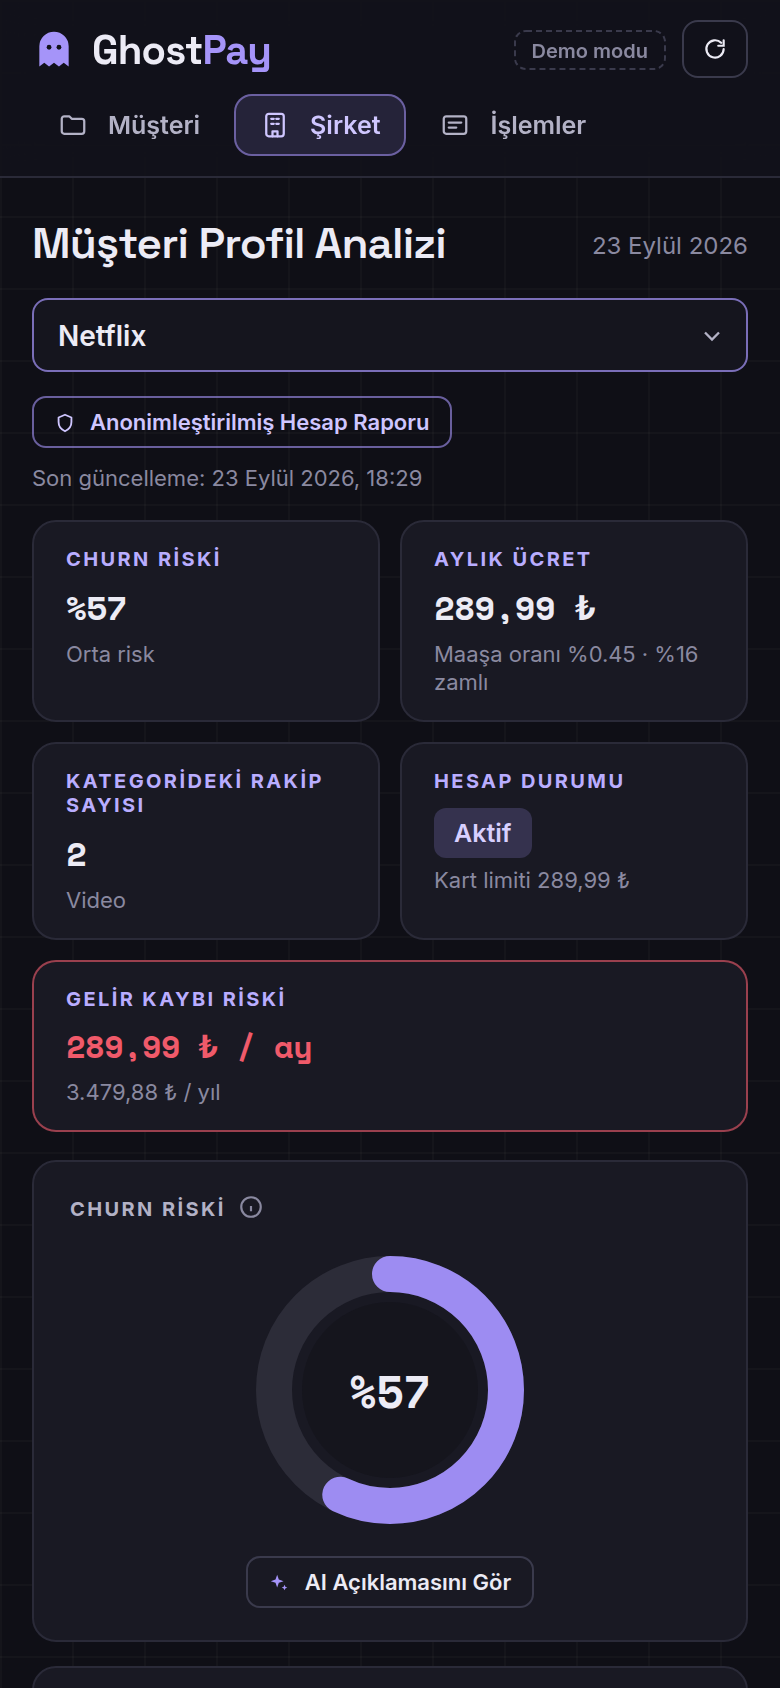
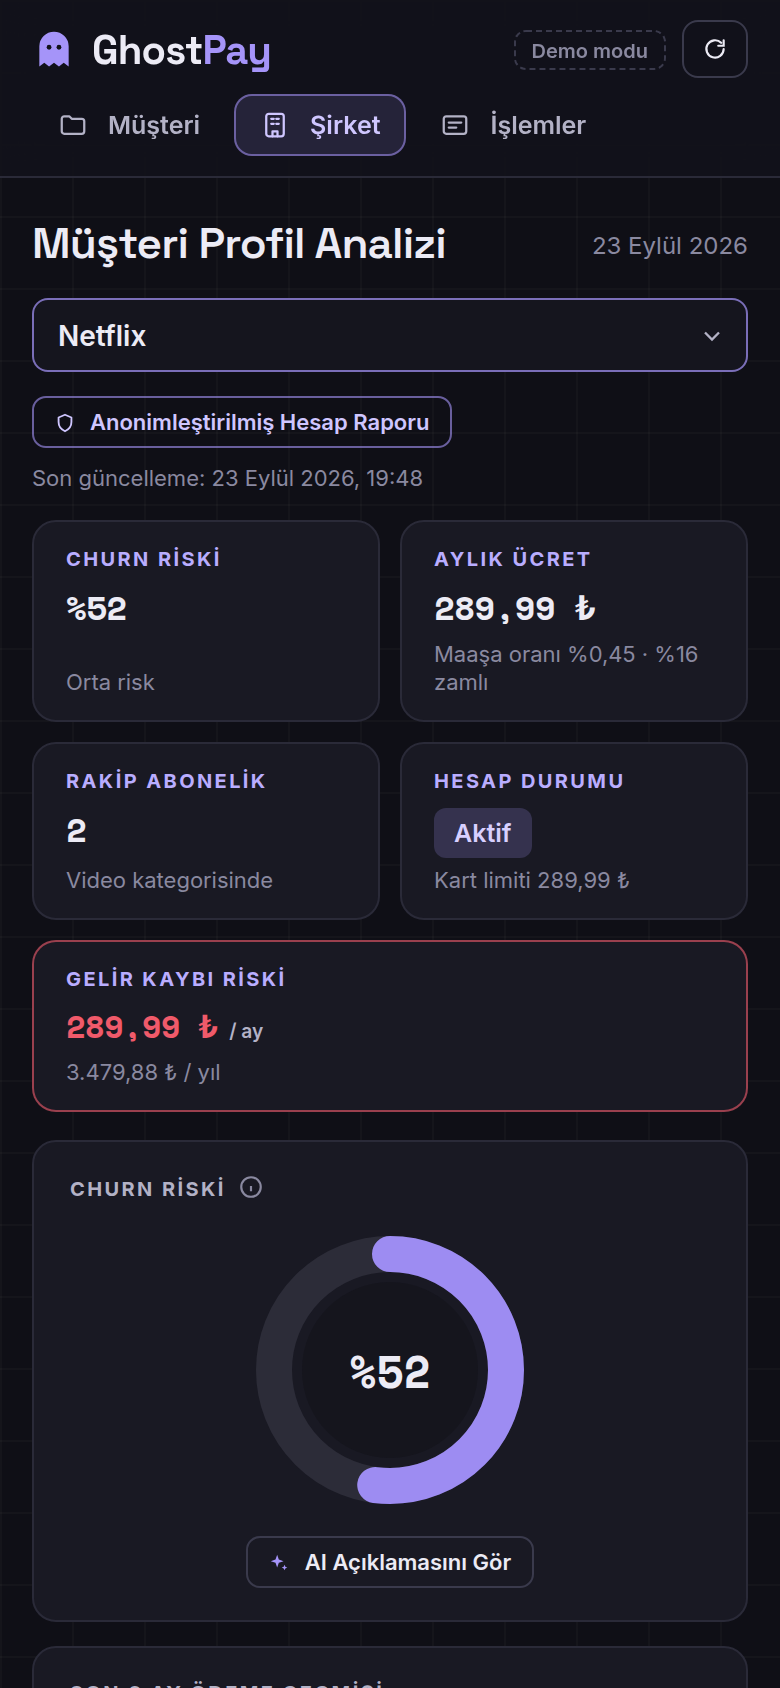
Arayüzdeki kaymaları düzelt, biçimleri tutarlı hâle getir (#8)
* Keep the free server awake and document design decisions

- Scheduled workflow pings /healthz every 10 minutes so the first visit
  does not wait for Render to wake up
- README explains subscription and price hike detection, the churn
  formula, the single worker setup and why there is no database
- Note that GhostPay is not an official Moka United product

* Fix layout glitches and make formatting consistent

- Category chips on tablets and phones no longer take the full width
- Charts use a narrower drawing on phones so axis labels stay readable
- Percentages use a decimal comma and a leading % sign everywhere
- Limit inputs always show two decimals
- Limit warning is styled as a warning with an icon
- Hesap raporu shows readable labels and formatted values
- KPI subtitles line up, revenue risk shows '/ ay' as a unit
- Navigation shows B2C/B2B as small tags, fix Zekâ spelling
- Rephrase summary texts that attached suffixes to percentages
- Refreshed README screenshots and demo GIF

diff --git a/static/app.js b/static/app.js
@@ -21,6 +21,7 @@ const ICON = {
   list: '<svg viewBox="0 0 24 24" aria-hidden="true"><path d="M8 6h12M8 12h12M8 18h12M4 6h.01M4 12h.01M4 18h.01"/></svg>',
   down: '<svg viewBox="0 0 24 24" aria-hidden="true"><path d="M17 7L7 17M7 9v8h8"/></svg>',
   up: '<svg viewBox="0 0 24 24" aria-hidden="true"><path d="M7 17L17 7M9 7h8v8"/></svg>',
+  alert: '<svg viewBox="0 0 24 24" aria-hidden="true"><path d="M12 9v4M12 17h.01M10.3 3.9L1.8 18a2 2 0 0 0 1.7 3h17a2 2 0 0 0 1.7-3L13.7 3.9a2 2 0 0 0-3.4 0z"/></svg>',
   trend: '<svg viewBox="0 0 24 24" aria-hidden="true"><path d="M3 17l6-6 4 4 8-8M15 7h6v6"/></svg>',
   lock: '<svg viewBox="0 0 24 24" aria-hidden="true"><rect x="5" y="11" width="14" height="10" rx="2"/><path d="M8 11V7a4 4 0 0 1 8 0v4"/></svg>',
 };
@@ -46,7 +47,7 @@ const esc = (s) => String(s ?? "").replace(/[&<>"']/g,
 const tl = (n) => Number(n).toLocaleString("tr-TR",
   { minimumFractionDigits: 2, maximumFractionDigits: 2 }) + " ₺";
 const tlInt = (n) => Math.round(n).toLocaleString("tr-TR") + " ₺";
-const pct = (n, d = 1) => Number(Number(n).toFixed(d)).toString();
+const pct = (n, d = 1) => Number(Number(n).toFixed(d)).toString().replace(".", ",");
 const money = (n) => `<span class="money">${tl(n)}</span>`;
 
 function parseDate(iso) {
@@ -79,7 +80,8 @@ function ago(iso) {
   const h = Math.floor(min / 60);
   return h < 24 ? `${h} sa önce` : `${Math.floor(h / 24)} gün önce`;
 }
-const limitText = (n) => String(n).replace(".", ",");
+const limitText = (n) => Number(n).toFixed(2).replace(".", ",");
+const isPhone = () => window.matchMedia("(max-width: 860px)").matches;
 function parseAmount(text) {
   let t = String(text).trim();
   if (t.includes(",")) t = t.replace(/\./g, "").replace(",", ".");
@@ -220,7 +222,7 @@ function renderB2C() {
 
   const legend = (c) => c ? `<div class="legend-item">
       <div class="name"><i class="dot" style="background:${CAT_COLORS[c.name]}"></i>${esc(c.name)}</div>
-      <div class="amount">${money(c.total)} <span>· ${pct((100 * c.total) / donutTotal)}%</span></div>
+      <div class="amount">${money(c.total)} <span>· %${pct((100 * c.total) / donutTotal)}</span></div>
     </div>` : "";
 
   const selected = cats.find((c) => c.name === ui.category);
@@ -383,7 +385,7 @@ function usageHtml(s, limit) {
 
 function warnHtml(s, limit) {
   return limit < s.fiyat
-    ? `<div class="limit-warn" role="status">Limit Ücretin Altında: Sonraki çekim reddedilecek.</div>` : "";
+    ? `<div class="limit-warn" role="status">${ICON.alert}<span>Limit ücretin altında. Sonraki çekim reddedilecek.</span></div>` : "";
 }
 
 function onLimitInput(input) {
@@ -457,9 +459,9 @@ function renderB2B() {
     <div class="kpis five">
       <div class="panel kpi"><div class="label">Churn Riski</div><div class="value">%${c.churn_risk}</div><div class="sub">${level.text}${hasAi ? "" : " · tahmini"}</div></div>
       <div class="panel kpi"><div class="label">Aylık Ücret</div><div class="value">${money(s.fiyat)}</div><div class="sub">Maaşa oranı %${pct((100 * s.fiyat) / salary(), 2)}${s.zam ? ` · %${pct(s.zam.oran_yuzde)} zamlı` : ""}</div></div>
-      <div class="panel kpi"><div class="label">Kategorideki Rakip Sayısı</div><div class="value">${rivals}</div><div class="sub">${esc(s.kategori)}</div></div>
+      <div class="panel kpi"><div class="label">Rakip Abonelik</div><div class="value">${rivals}</div><div class="sub">${esc(s.kategori)} kategorisinde</div></div>
       <div class="panel kpi"><div class="label">Hesap Durumu</div><div class="chip ${isFrozen(s) ? "" : "aktif"}">${s.durum}</div><div class="sub">Kart limiti ${tl(s.limit)}</div></div>
-      <div class="panel kpi danger"><div class="label">Gelir Kaybı Riski</div><div class="value">${money(s.fiyat)} / ay</div><div class="sub">${tl(12 * s.fiyat)} / yıl</div></div>
+      <div class="panel kpi danger"><div class="label">Gelir Kaybı Riski</div><div class="value">${money(s.fiyat)}<small>/ ay</small></div><div class="sub">${tl(12 * s.fiyat)} / yıl</div></div>
     </div>
 
     <div class="b2b-grid">
@@ -477,7 +479,7 @@ function renderB2B() {
       </div>
       <div class="panel chart-panel">
         <div class="label plain">Son 6 Ay Ödeme Geçmişi</div>
-        ${areaSvg(months, { width: 760, height: 200, yTicks: true, label: `${s.ad} son 6 ay ödemeleri` })}
+        ${areaSvg(months, { width: isPhone() ? 380 : 760, height: isPhone() ? 220 : 200, yTicks: true, label: `${s.ad} son 6 ay ödemeleri` })}
       </div>
     </div>
 
@@ -523,19 +525,52 @@ function openExplain() {
     </div>`);
 }
 
+const REPORT_FIELDS = [
+  ["anonim_kullanici_id", "Anonim kullanıcı kimliği"],
+  ["hizmet", "Hizmet"],
+  ["kategori", "Kategori"],
+  ["aylik_ucret_tl", "Aylık ücret", "tl"],
+  ["maasa_orani_yuzde", "Ücretin maaşa oranı", "pct"],
+  ["fiyat_artisi", "Son zam", "hike"],
+  ["sanal_kart_durumu", "Sanal kart durumu"],
+  ["dondurma_tarihi", "Dondurma tarihi", "date"],
+  ["sanal_kart_aylik_limiti_tl", "Kart limiti", "tl"],
+  ["limit_ucretin_altinda_mi", "Limit ücretin altında mı", "bool"],
+  ["kesintisiz_odeme_ay_sayisi", "Kesintisiz ödenen ay"],
+  ["odeme_gecmisi", "Ödeme geçmişi", "payments"],
+  ["kategorideki_rakip_sayisi", "Rakip abonelik sayısı"],
+  ["ayni_kategorideki_diger_abonelikler", "Aynı kategorideki abonelikler", "rivals"],
+  ["rakip_ortalama_ucret_tl", "Rakiplerin ortalama ücreti", "tl"],
+  ["kategorinin_en_pahalisi_mi", "Kategorinin en pahalısı mı", "bool"],
+  ["toplam_aktif_abonelik_yuku_tl", "Toplam aktif abonelik yükü", "tl"],
+  ["toplam_abonelik_yukunun_maasa_orani_yuzde", "Abonelik yükünün maaşa oranı", "pct"],
+  ["genel_harcama_trendi", "Genel harcama eğilimi", "text"],
+];
+
+function reportValue(v, kind) {
+  if (v === null || v === undefined || v === "") return "—";
+  switch (kind) {
+    case "tl": return esc(tl(v));
+    case "pct": return `%${pct(v, 2)}`;
+    case "bool": return v ? "Evet" : "Hayır";
+    case "date": return dmy(v);
+    case "text": return esc(String(v).charAt(0).toLocaleUpperCase("tr-TR") + String(v).slice(1));
+    case "hike": return `${esc(tl(v.eski_fiyat))} → ${esc(tl(v.yeni_fiyat))} (%${pct(v.oran_yuzde)}), ${monthYear(v.tarih)}`;
+    case "payments": return v.map((p) => `${dmy(p.tarih)} · ${esc(tl(p.tutar))}`).join("<br>");
+    case "rivals": return v.map((r) => `${esc(r.hizmet)} · ${esc(tl(r.aylik_ucret_tl))} · ${esc(r.durum)}`).join("<br>");
+    default: return esc(v);
+  }
+}
+
 async function openReport() {
   try {
     const r = await api("GET", `/api/b2b/${ui.company}/rapor`);
-    const fmt = (v) => {
-      if (v === null) return "—";
-      if (typeof v === "boolean") return v ? "evet" : "hayır";
-      if (Array.isArray(v)) return v.map((x) => esc(typeof x === "object" ? Object.values(x).join(" · ") : x)).join("<br>");
-      if (typeof v === "object") return Object.entries(v).map(([k, x]) => `${esc(k)}: ${esc(x)}`).join("<br>");
-      return esc(v);
-    };
+    const known = new Set(REPORT_FIELDS.map(([k]) => k));
+    const rows = [...REPORT_FIELDS.filter(([k]) => k in r), ...Object.keys(r).filter((k) => !known.has(k)).map((k) => [k, k])];
     openModal("Anonimleştirilmiş Hesap Raporu", `
       <p class="modal-note">Şirketlere kimlik bilgisi paylaşılmaz; yalnızca aşağıdaki anonim finansal davranış sinyalleri iletilir.</p>
-      <div class="kv">${Object.entries(r).map(([k, v]) => `<div class="k">${esc(k)}</div><div class="v">${fmt(v)}</div>`).join("")}</div>`, true);
+      <div class="kv">${rows.map(([k, label, kind]) => `<div class="k">${esc(label)}<code>${esc(k)}</code></div>
+        <div class="v">${reportValue(r[k], kind)}</div>`).join("")}</div>`, true);
   } catch (e) { toastError(e.message); }
 }
 
@@ -571,7 +606,7 @@ function renderTransactions() {
 
     <div class="panel tx-chart">
       <div class="label plain">Aylık Gider (₺) — Son 6 Ay</div>
-      ${areaSvg(points, { width: 1200, height: 230, yTicks: true, label: "Son 6 ay aylık gider" })}
+      ${areaSvg(points, { width: isPhone() ? 380 : 1200, height: isPhone() ? 220 : 230, yTicks: true, label: "Son 6 ay aylık gider" })}
     </div>
 
     <div class="panel table-wrap">
@@ -778,6 +813,7 @@ setInterval(() => {
 }, 30000);
 
 window.addEventListener("hashchange", routeFromHash);
+window.matchMedia("(max-width: 860px)").addEventListener("change", () => { if (ui.view !== "b2c") render(); });
 
 (async function init() {
   routeFromHash();

diff --git a/static/style.css b/static/style.css
@@ -84,6 +84,9 @@ h1, h2, h3 { margin: 0; font-weight: 600; }
   transition: background .15s, border-color .15s, color .15s;
 }
 .nav a .short { display: none; }
+.nav a .long { display: flex; align-items: center; flex: 1; gap: 8px; }
+.nav .tag { margin-left: auto; font-size: 9px; font-weight: 700; letter-spacing: .08em; color: var(--muted); border: 1px solid var(--border-strong); border-radius: 4px; padding: 1px 5px; }
+.nav a.active .tag { color: #cfc6ff; border-color: rgba(165,148,249,.45); }
 .nav a svg { width: 15px; height: 15px; fill: none; stroke: currentColor; stroke-width: 1.8; stroke-linecap: round; stroke-linejoin: round; }
 .nav a:hover { background: rgba(255,255,255,.03); color: var(--text); }
 .nav a.active { color: #cfc6ff; border-color: rgba(165,148,249,.55); background: var(--accent-soft); }
@@ -130,12 +133,14 @@ h1, h2, h3 { margin: 0; font-weight: 600; }
 
 .kpis { display: grid; grid-template-columns: repeat(4, 1fr); gap: 12px; margin-bottom: 14px; }
 .kpis.five { grid-template-columns: repeat(5, 1fr); }
-.kpi { padding: 12px 16px; min-width: 0; }
+.kpi { padding: 12px 16px; min-width: 0; display: flex; flex-direction: column; align-items: flex-start; }
+.kpi .label, .kpi .value { align-self: stretch; }
+.kpi .value small { font-family: var(--font); font-size: .6em; font-weight: 600; color: var(--text-2); margin-left: 6px; letter-spacing: 0; }
 .kpi .value {
   font-family: var(--mono); font-size: clamp(18px, 1.7vw, 24px); font-weight: 700;
   margin-top: 6px; letter-spacing: -.02em; white-space: nowrap; overflow: hidden; text-overflow: ellipsis;
 }
-.kpi .sub { font-size: 11px; color: var(--muted); margin-top: 4px; }
+.kpi .sub { font-size: 11px; color: var(--muted); margin-top: auto; padding-top: 4px; }
 .kpi.danger { border-color: rgba(240, 90, 106, .6); }
 .kpi.danger .value { color: var(--danger); font-size: clamp(16px, 1.3vw, 18px); }
 .chip {
@@ -291,9 +296,11 @@ svg .dot:hover { r: 6; }
 .save-btn.dirty { color: #fff; border-color: var(--accent); background: var(--accent-2); }
 .save-btn:disabled { cursor: default; }
 .limit-warn {
-  margin-top: 8px; padding: 8px 10px; border-radius: 7px; font-size: 11px; font-weight: 700; line-height: 1.4;
-  border: 1px solid var(--border-strong); background: #16161f;
+  display: flex; align-items: flex-start; gap: 7px;
+  margin-top: 8px; padding: 8px 10px; border-radius: 7px; font-size: 11px; font-weight: 600; line-height: 1.4;
+  color: #ffc2c8; border: 1px solid rgba(240,90,106,.35); background: rgba(240,90,106,.08);
 }
+.limit-warn svg { width: 13px; height: 13px; margin-top: 1px; fill: none; stroke: var(--danger); stroke-width: 2; stroke-linecap: round; stroke-linejoin: round; }
 
 .sub-name { display: flex; align-items: center; gap: 8px; font-family: var(--display); font-size: 16px; margin-top: 2px; padding-right: 90px; }
 .risk-dot { width: 8px; height: 8px; border-radius: 50%; background: var(--ok); flex-shrink: 0; }
@@ -426,7 +433,8 @@ svg .dot:hover { r: 6; }
 .modal li { font-size: 12px; line-height: 1.6; color: var(--text-2); margin-bottom: 4px; }
 .kv { display: grid; grid-template-columns: minmax(0, 1fr) minmax(0, 1.2fr); font-size: 11.5px; }
 .kv div { padding: 7px 4px; border-top: 1px solid var(--border); }
-.kv .k { color: var(--muted); font-family: var(--mono); font-size: 10.5px; word-break: break-word; }
+.kv .k { color: var(--text-2); word-break: break-word; }
+.kv .k code { display: block; margin-top: 2px; color: var(--muted); font-family: var(--mono); font-size: 9.5px; }
 .kv .v { color: var(--text); word-break: break-word; }
 
 /* İşlem geçmişi */
@@ -498,10 +506,12 @@ td.amt.in { color: var(--ok); }
   .donut-panel { grid-template-columns: minmax(0, 1fr) auto minmax(0, 1fr); justify-items: center; }
 
   .subs-layout { grid-template-columns: minmax(0, 1fr); gap: 16px; }
+  .sub-line { column-gap: 14px; }
+  .sub-line .sep { display: none; }
   .stack-col { position: static; }
   .stack { display: flex; gap: 10px; perspective: none; padding: 0; }
   .stack-item {
-    flex: 1 1 0; min-width: 0; height: auto; margin: 0; padding: 12px 16px;
+    flex: 1 1 0; width: auto; min-width: 0; height: auto; margin: 0; padding: 12px 16px;
     transform: none; box-shadow: 0 6px 16px rgba(0,0,0,.3);
   }
   .stack-item:hover { transform: translateY(-2px); }
@@ -545,7 +555,7 @@ td.amt.in { color: var(--ok); }
 
   .subs-layout { gap: 14px; }
   .stack { gap: 8px; overflow-x: auto; padding: 2px 0 6px; scroll-snap-type: x mandatory; }
-  .stack-item { flex: 0 0 auto; min-width: 150px; padding: 10px 14px; box-shadow: none; scroll-snap-align: start; }
+  .stack-item { flex: 1 0 auto; min-width: 150px; padding: 10px 14px; box-shadow: none; scroll-snap-align: start; }
   .stack-item:hover { transform: none; }
   .stack-item .nm { font-size: 15px; }
   .total-card { margin-top: 8px; padding: 12px 16px; }

diff --git a/static/index.html b/static/index.html
@@ -31,11 +31,11 @@
       <nav class="nav" aria-label="Paneller">
         <a href="#b2c" data-view="b2c">
           <svg viewBox="0 0 24 24" aria-hidden="true"><path d="M3 7a2 2 0 0 1 2-2h4l2 2h8a2 2 0 0 1 2 2v8a2 2 0 0 1-2 2H5a2 2 0 0 1-2-2z"/></svg>
-          <span class="long">B2C-Müşteri Paneli</span><span class="short">Müşteri</span>
+          <span class="long">Müşteri Paneli<small class="tag">B2C</small></span><span class="short">Müşteri</span>
         </a>
         <a href="#b2b" data-view="b2b">
           <svg viewBox="0 0 24 24" aria-hidden="true"><rect x="5" y="3" width="14" height="18" rx="2"/><path d="M9 7h2M13 7h2M9 11h2M13 11h2M10 21v-4h4v4"/></svg>
-          <span class="long">B2B-Şirket Paneli</span><span class="short">Şirket</span>
+          <span class="long">Şirket Paneli<small class="tag">B2B</small></span><span class="short">Şirket</span>
         </a>
         <a href="#islemler" data-view="islemler">
           <svg viewBox="0 0 24 24" aria-hidden="true"><rect x="3" y="5" width="18" height="14" rx="2"/><path d="M7 10h10M7 14h6"/></svg>
@@ -46,7 +46,7 @@
       <div class="sidebar-foot">
         <span class="ai-badge">
           <svg viewBox="0 0 24 24" aria-hidden="true"><path d="M12 3l1.9 5.6L19.5 10l-5.6 1.9L12 17.5l-1.9-5.6L4.5 10l5.6-1.4z"/></svg>
-          Yapay Zeka Destekli Analiz
+          Yapay Zekâ Destekli Analiz
         </span>
         <span id="mode-badge" class="mode-badge" hidden
               title="API anahtarı tanımlı değil: yapay zekâ yanıtları davranış verisinden kural tabanlı üretiliyor.">

diff --git a/demo_ai.py b/demo_ai.py
@@ -15,7 +15,7 @@ def tl(n: float) -> str:
 
 
 def pct(n: float, digits: int = 1) -> str:
-    return f"%{round(n, digits):g}"
+    return f"%{round(n, digits):g}".replace(".", ",")
 
 
 def _month(iso: str) -> str:
@@ -153,8 +153,8 @@ def churn_analysis(f: dict) -> dict:
             line = f"Kategorideki diğer abonelikler ({', '.join(paused)}) dondurulmuş; bu servis kategoride tek aktif seçenek"
         degerlendirme.append(line)
     else:
-        degerlendirme.append(f"Kategoride rakip abonelik yok; ücret maaşın {pct(f['maasa_orani_yuzde'], 2)}'i")
-        degerlendirme.append(f"Toplam abonelik yükü maaşın {pct(f['toplam_abonelik_yukunun_maasa_orani_yuzde'])}'i, "
+        degerlendirme.append(f"Kategoride rakip abonelik yok; ücretin maaşa oranı {pct(f['maasa_orani_yuzde'], 2)}")
+        degerlendirme.append(f"Toplam abonelik yükünün maaşa oranı {pct(f['toplam_abonelik_yukunun_maasa_orani_yuzde'])}, "
                              "genel harcama trendi " + f["genel_harcama_trendi"])
 
     hike = f.get("fiyat_artisi")
@@ -204,6 +204,6 @@ def spending_summary(payload: dict) -> dict:
     first, last = months[0]["gider"], months[-1]["gider"]
     trend = "arttı" if last > first * 1.05 else "azaldı" if last < first * 0.95 else "dengede kaldı"
     return {"ozet": (
-        f"Son 6 ayda aylık ortalama {tl(avg)} harcadın; bu, maaşının {pct(100 * avg / payload['aylik_net_maas_tl'])}'i. "
+        f"Son 6 ayda aylık ortalama {tl(avg)} harcadın, maaşa oranı {pct(100 * avg / payload['aylik_net_maas_tl'])}. "
         f"En çok harcama yaptığın yerler {' ve '.join(t.title() for t in top)}; aylık giderin dönem başına göre {trend}. "
         f"Aktif aboneliklerin ayda {tl(subs_total)} tutuyor, kullanmadıklarını dondurarak bu yükü azaltabilirsin.")}

diff --git a/tests/test_demo_ai.py b/tests/test_demo_ai.py
@@ -22,7 +22,7 @@ def test_turkish_money_format():
 def test_user_analysis_shape():
     out = demo_ai.analyze_subscription(features("Netflix"))
     assert out["ozet"] and len(out["maddeler"]) == 3
-    assert "%0.45" in out["maddeler"][0]
+    assert "%0,45" in out["maddeler"][0]
 
 
 def test_churn_scores_spread_across_levels():
